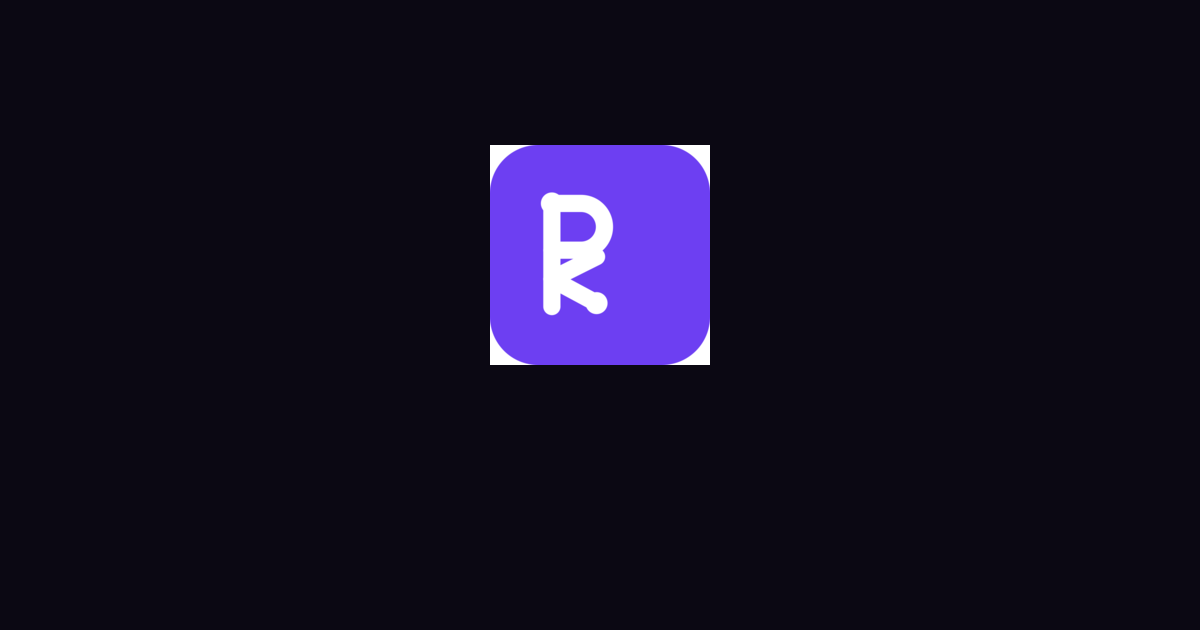
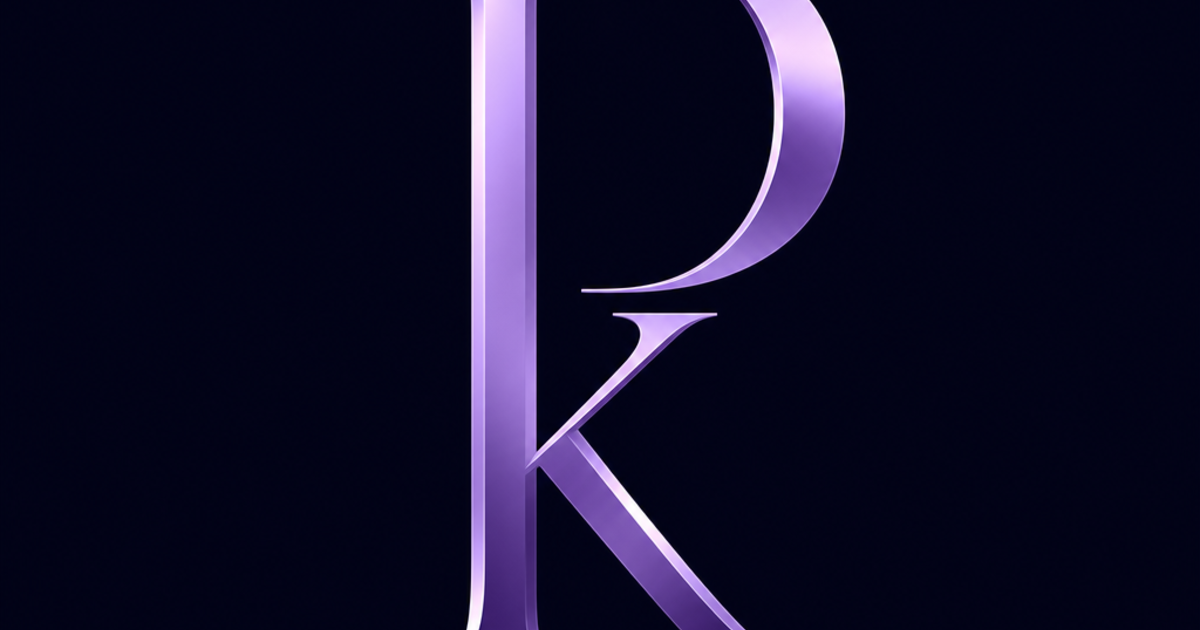
Changes

Changed region(s): [[0.37, 0.0, 0.7092, 1.0]]

diff --git a/src/components/site/BrandMark.tsx b/src/components/site/BrandMark.tsx
@@ -1,39 +1,19 @@
 import { cn } from "@/lib/utils";
+import pkLogo from "@/assets/pk-logo.png";
 
 /**
- * Personal brand mark for Pavithra K.
- * Geometric hybrid: the bowl + stem of a "P" whose lower stem branches into the
- * diagonal legs of a "K", punctuated with data nodes for a subtle AI/data cue.
- * Uses currentColor so it adapts to dark/light themes.
+ * Personal brand mark for Pavithra K — luxury PK monogram.
+ * Rendered as a small rounded tile so the deep-navy logo background
+ * reads as an intentional app-icon chip in both light and dark themes.
  */
 export function BrandMark({ className }: { className?: string }) {
   return (
-    <svg
-      viewBox="0 0 32 32"
-      role="img"
-      aria-label="Pavithra K brand mark"
-      className={cn("text-primary", className)}
-      fill="none"
-    >
-      <g
-        stroke="currentColor"
-        strokeWidth="2.6"
-        strokeLinecap="round"
-        strokeLinejoin="round"
-      >
-        {/* stem */}
-        <path d="M9 4.5V27.5" />
-        {/* P bowl */}
-        <path d="M9 4.5h7.5a5.75 5.75 0 0 1 0 11.5H9" />
-        {/* K legs */}
-        <path d="M9 22.5 20.5 16.5" opacity="0.9" />
-        <path d="M9 22.5 20.5 28.5" opacity="0.9" />
-      </g>
-      <g fill="currentColor">
-        <circle cx="9" cy="4.5" r="2.6" />
-        <circle cx="20.5" cy="28.5" r="2.4" />
-        <circle cx="20.5" cy="16.5" r="1.8" opacity="0.8" />
-      </g>
-    </svg>
+    <img
+      src={pkLogo}
+      alt="Pavithra K brand mark"
+      width={1024}
+      height={1024}
+      className={cn("rounded-lg object-cover shadow-sm ring-1 ring-border/60", className)}
+    />
   );
 }
